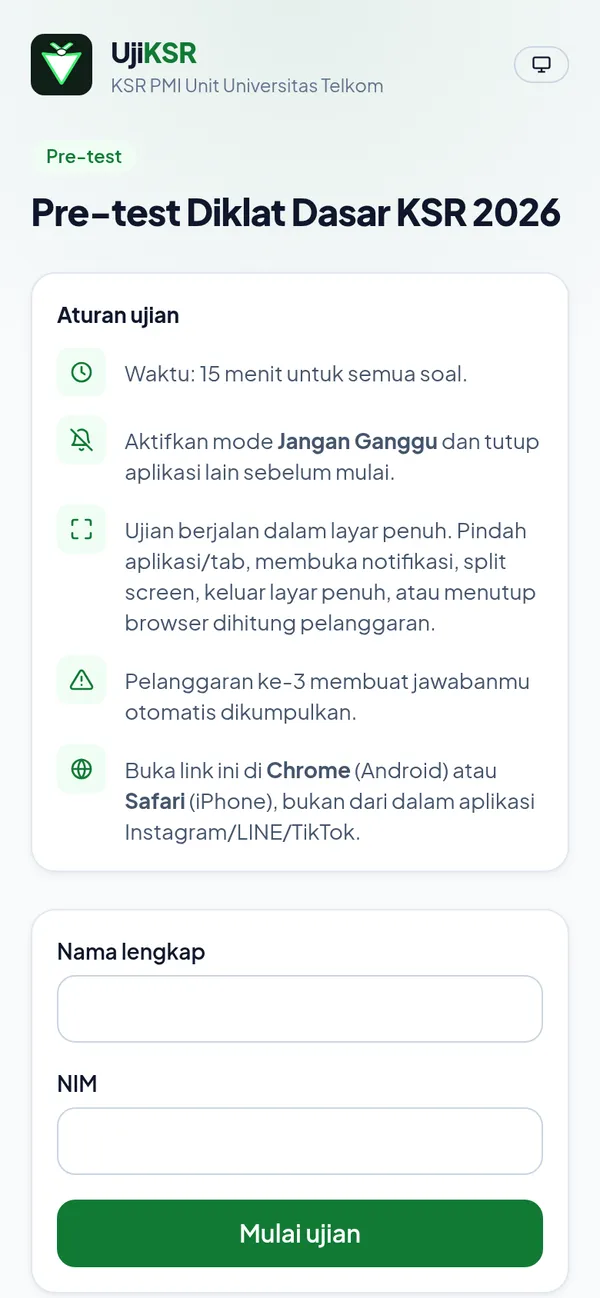
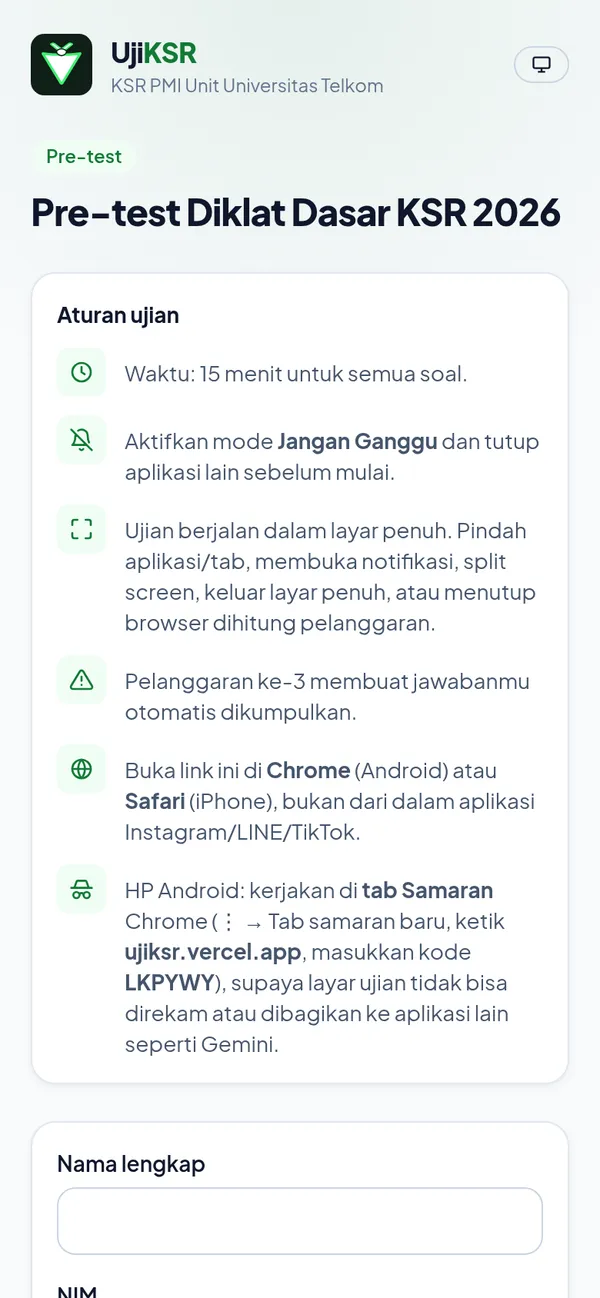
feat: ask Android participants to take the exam in an incognito tab
A web page cannot detect or block screen recording or screen sharing (for
example Gemini Live started before the exam). Chrome on Android blacks out
incognito tabs in screenshots, recordings and screen shares, so the exam
rules, the projector page and the manual now tell Android participants to
open the exam in a Chrome incognito tab by typing the address and code
(a scanned QR always opens a normal tab). The committee checks it by eye;
the app can't verify it.

The manual's anti-cheat limits now spell out screen sharing and photos
from another phone, and the H-1 trial checks that screenshots fail in
incognito and that calling Gemini counts as a violation.

Claude-Session: https://claude.ai/code/session_01Ge1ib5m2dKGfhR1vjFy6yi

Changed region(s): [[0.09, 0.678, 0.84, 0.832], [0.09, 0.8012, 0.93, 1.0]]

diff --git a/app/s/[code]/join-form.tsx b/app/s/[code]/join-form.tsx
@@ -10,6 +10,7 @@ import { enterFullscreen, exitFullscreen } from '@/lib/fullscreen'
 import ResultLink from './result-link'
 
 type Props = {
+  host: string // typed by hand in an incognito tab, where a scanned QR doesn't open
   session: Pick<Session, 'code' | 'title' | 'kind' | 'timer_mode' | 'duration_sec' | 'per_question_sec' | 'max_violations'>
 }
 
@@ -22,7 +23,7 @@ function stored(key: string) {
   }
 }
 
-export default function JoinForm({ session }: Props) {
+export default function JoinForm({ host, session }: Props) {
   const router = useRouter()
   const key = `attempt:${session.code}`
   const existing = useSyncExternalStore(noSubscribe, () => stored(key), () => null)
@@ -93,6 +94,10 @@ export default function JoinForm({ session }: Props) {
           <Rule icon="globe">
             Buka link ini di <b>Chrome</b> (Android) atau <b>Safari</b> (iPhone), bukan dari dalam aplikasi Instagram/LINE/TikTok.
           </Rule>
+          <Rule icon="incognito">
+            HP Android: kerjakan di <b>tab Samaran</b> Chrome (⋮ → Tab samaran baru, ketik <b>{host}</b>, masukkan kode <b>{session.code}</b>),
+            supaya layar ujian tidak bisa direkam atau dibagikan ke aplikasi lain seperti Gemini.
+          </Rule>
         </ul>
       </section>
 
@@ -132,6 +137,7 @@ const ICONS = {
   screen: <path d="M3 8V5a2 2 0 0 1 2-2h3M16 3h3a2 2 0 0 1 2 2v3M21 16v3a2 2 0 0 1-2 2h-3M8 21H5a2 2 0 0 1-2-2v-3" />,
   alert: <path d="M10.3 3.9 1.8 18a2 2 0 0 0 1.7 3h17a2 2 0 0 0 1.7-3L13.7 3.9a2 2 0 0 0-3.4 0zM12 9v4M12 17h.01" />,
   globe: <><circle cx="12" cy="12" r="9" /><path d="M3 12h18M12 3a14 14 0 0 1 0 18M12 3a14 14 0 0 0 0 18" /></>,
+  incognito: <><path d="M2 11h20M5 11l2.2-6.2A1.2 1.2 0 0 1 8.3 4h7.4a1.2 1.2 0 0 1 1.1.8L19 11M10 18a2 2 0 0 1 4 0" /><circle cx="7" cy="18" r="3" /><circle cx="17" cy="18" r="3" /></>,
 }
 
 function Rule({ icon, children }: Readonly<{ icon: keyof typeof ICONS; children: React.ReactNode }>) {

diff --git a/app/admin/sessions/[id]/qr/page.tsx b/app/admin/sessions/[id]/qr/page.tsx
@@ -50,6 +50,9 @@ export default async function QrDisplayPage(props: PageProps<'/admin/sessions/[i
             </p>
             <p className="font-mono text-6xl font-extrabold tracking-[0.15em] text-primary lg:text-8xl">{session.code}</p>
           </div>
+          <p className="text-base text-secondary lg:text-xl">
+            HP Android: buka <b className="text-fg">tab Samaran</b> di Chrome, lalu ketik alamat dan kode di atas.
+          </p>
           <p className={`badge text-base ${isOpen(session) ? 'bg-ok-soft text-ok' : 'bg-subtle text-muted'}`}>
             {isOpen(session) ? 'Sesi dibuka — silakan mulai' : session.is_open ? 'Sesi sudah ditutup' : 'Sesi belum dibuka'}
           </p>

diff --git a/app/s/[code]/page.tsx b/app/s/[code]/page.tsx
@@ -1,3 +1,4 @@
+import { headers } from 'next/headers'
 import { connection } from 'next/server'
 import Notice from '@/app/notice'
 import { db, must } from '@/lib/db'
@@ -21,6 +22,7 @@ export default async function SessionPage(props: PageProps<'/s/[code]'>) {
   }
   return (
     <JoinForm
+      host={(await headers()).get('host') ?? ''}
       session={{
         code: session.code,
         title: session.title,

diff --git a/docs/PANDUAN.md b/docs/PANDUAN.md
@@ -183,13 +183,14 @@ Dari halaman **Sesi ujian**, klik **Bandingkan pre-test vs post-test**, pilih se
 ### 4.1 Sebelum mulai
 
 - Pakai **Chrome** (Android) atau **Safari** (iPhone). Jangan membuka link dari dalam aplikasi Instagram, LINE, atau TikTok.
+- HP Android: kerjakan di **tab Samaran** Chrome (⋮ → **Tab samaran baru**). Di tab Samaran, layar ujian tidak bisa direkam atau dibagikan ke aplikasi lain seperti Gemini.
 - Pastikan baterai cukup dan internet stabil.
 - Aktifkan mode **Jangan Ganggu** dan tutup aplikasi lain.
 - Siapkan **NIM**. Ketik NIM yang sama persis di pre-test dan post-test.
 
 ### 4.2 Masuk ujian
 
-Scan QR dari panitia, atau buka **ujiksr.vercel.app** lalu ketik kode sesi. Baca aturan ujian, isi **Nama lengkap** dan **NIM**, lalu tekan **Mulai ujian**. Layar otomatis masuk mode layar penuh.
+Scan QR dari panitia, atau buka **ujiksr.vercel.app** lalu ketik kode sesi. Di HP Android, ketik alamat dan kodenya di **tab Samaran**, karena scan QR selalu membuka tab biasa. Baca aturan ujian, isi **Nama lengkap** dan **NIM**, lalu tekan **Mulai ujian**. Layar otomatis masuk mode layar penuh.
 
 <table align="center">
   <tr>
@@ -244,12 +245,13 @@ Kalau halaman sudah telanjur ditutup, buka lagi QR/link yang sama di HP yang sam
 **Sehari sebelumnya (H-1)**
 - [ ] Buka `/admin` supaya database aktif. Project Supabase gratis otomatis *pause* setelah 7 hari tidak dipakai.
 - [ ] Buat sesi pre-test (dan post-test), upload soal, lalu periksa kunci jawaban (✓ hijau).
-- [ ] Uji coba singkat dengan 1 HP Android dan 1 iPhone memakai sesi uji. Hapus sesi uji setelahnya.
+- [ ] Uji coba singkat dengan 1 HP Android dan 1 iPhone memakai sesi uji. Di Android, kerjakan di tab Samaran: screenshot harus gagal (layar hitam), dan memanggil Gemini atau Circle to Search harus tercatat sebagai pelanggaran. Hapus sesi uji setelahnya.
 - [ ] Bagikan [Panduan peserta](#4-panduan-peserta) ke peserta.
 
 **Sebelum mulai**
 - [ ] Pastikan WiFi/sinyal ruangan cukup untuk semua peserta.
 - [ ] Minta peserta mengaktifkan Jangan Ganggu dan memakai Chrome/Safari.
+- [ ] Minta peserta Android membuka ujian di **tab Samaran** Chrome. Cek sekilas: bilah alamat gelap dengan ikon Samaran (topi dan kacamata).
 - [ ] Klik **Buka sesi**, lalu **Tayangkan QR & kode** di tab baru. Share tab itu saja, jangan halaman sesi yang berisi kunci jawaban.
 
 **Selama ujian**
@@ -273,7 +275,7 @@ Kalau halaman sudah telanjur ditutup, buka lagi QR/link yang sama di HP yang sam
 
 **Dideteksi** (dicatat sebagai pelanggaran, dengan jam dan jenisnya)
 - Pindah aplikasi/tab, atau membuka notifikasi.
-- Hilang fokus, misalnya muncul overlay atau jendela lain.
+- Hilang fokus, misalnya muncul overlay atau jendela lain seperti Gemini atau Circle to Search.
 - Keluar dari layar penuh.
 - Split screen, floating window, atau jendela mengecil lebih dari 40%.
 - Reload atau membuka ulang halaman ujian.
@@ -289,12 +291,13 @@ Satu kejadian yang memicu beberapa sinyal sekaligus hanya dihitung **sekali** (j
 - Nilai baru dirilis setelah semua peserta selesai.
 
 **Batasan (tidak bisa dicegah oleh aplikasi web)**
-- Screenshot, atau foto layar dari HP lain. Watermark membuat pelakunya bisa dilacak.
+- Screenshot, rekam layar, atau **share screen**, misalnya Gemini Live yang dinyalakan sebelum ujian lalu ditanya lewat suara. Web tidak bisa mendeteksinya. Di Android, **tab Samaran** Chrome membuat layar ujian hitam saat di-screenshot, direkam, atau dibagikan, kecuali peserta sengaja mengizinkan screenshot Samaran di `chrome://flags`. Di iPhone tidak ada perlindungan serupa.
+- Foto layar dari HP lain, termasuk kamera Gemini di HP lain. Watermark membuat pelakunya bisa dilacak.
 - Peserta bertanya ke orang di sebelahnya.
 - **iPhone** tidak mendukung layar penuh untuk web, jadi di iPhone yang terdeteksi adalah pindah aplikasi/tab.
 - Peserta yang paham teknis di **laptop** bisa mematikan deteksi di browser, tapi aturan server (timer, kunci jawaban, urutan soal) tetap tidak bisa diakali.
 
-**Tips pengawasan:** gunakan **mode per soal** untuk ujian yang paling ketat, batasi waktu per soal secukupnya, dan tetap tempatkan pengawas di ruangan.
+**Tips pengawasan:** gunakan **mode per soal** untuk ujian yang paling ketat, batasi waktu per soal secukupnya, minta peserta Android memakai tab Samaran, jangan izinkan HP kedua atau earphone di meja, dan tetap tempatkan pengawas di ruangan.
 
 ---
 

diff --git a/README.md b/README.md
@@ -75,7 +75,7 @@
 | **Dideteksi** (dicatat sebagai pelanggaran) | Pindah aplikasi/tab · hilang fokus (notifikasi, overlay) · keluar layar penuh · split screen / jendela mengecil · reload atau membuka ulang ujian. Pelanggaran ke-*N* mengumpulkan jawaban otomatis. |
 | **Dijaga server** | Timer dari server · soal dan opsi diacak per peserta · kunci jawaban tidak pernah dikirim ke HP · 1 NIM = 1 kali per sesi · mode per soal tidak bisa kembali · nilai baru muncul setelah semua selesai |
 
-**Keterbatasan aplikasi web:** tidak bisa memblokir screenshot atau foto dari HP lain. Watermark membantu melacak siapa yang menyebarkan. iPhone tidak mendukung layar penuh, jadi di sana yang terdeteksi adalah pindah aplikasi/tab. Pengawas di ruangan tetap perlu. Rinciannya ada di [Buku Panduan](docs/PANDUAN.md#6-anti-cheat-secara-rinci).
+**Keterbatasan aplikasi web:** tidak bisa memblokir screenshot, rekam/share layar (misalnya ke Gemini), atau foto dari HP lain. Di Android, peserta diminta memakai tab Samaran Chrome, yang membuat layar ujian hitam saat direkam atau dibagikan. Watermark membantu melacak siapa yang menyebarkan. iPhone tidak mendukung layar penuh, jadi di sana yang terdeteksi adalah pindah aplikasi/tab. Pengawas di ruangan tetap perlu. Rinciannya ada di [Buku Panduan](docs/PANDUAN.md#6-anti-cheat-secara-rinci).
 
 ## Cara kerja
 
